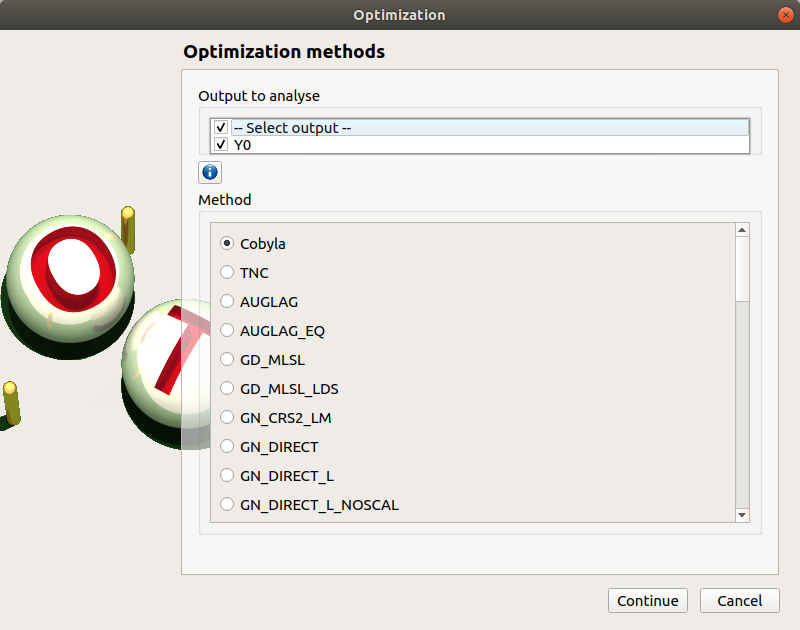
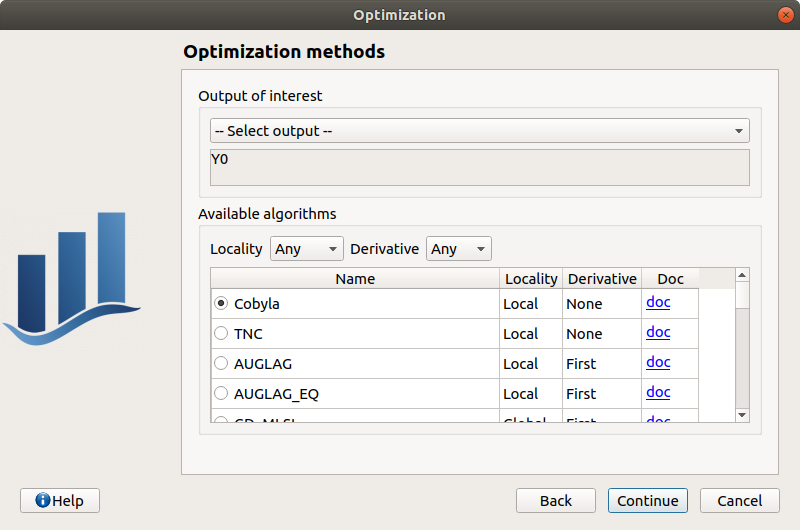
updated doc and translations

diff --git a/translations/persalys_fr.ts b/translations/persalys_fr.ts
@@ -5421,6 +5421,81 @@ ou interaction</translation>
     </message>
 </context>
 <context>
+    <name>PERSALYS::OptimizationAlgoPage</name>
+    <message>
+        <location filename="../lib/src/view/OptimizationAlgoPage.cxx" line="50"/>
+        <source>Optimization methods</source>
+        <translation>Méthodes d&apos;optimisation</translation>
+    </message>
+    <message>
+        <location filename="../lib/src/view/OptimizationAlgoPage.cxx" line="57"/>
+        <source>Available algorithms</source>
+        <translation>Algorithmes disponibles</translation>
+    </message>
+    <message>
+        <location filename="../lib/src/view/OptimizationAlgoPage.cxx" line="61"/>
+        <source>Local</source>
+        <translation>Local</translation>
+    </message>
+    <message>
+        <location filename="../lib/src/view/OptimizationAlgoPage.cxx" line="61"/>
+        <source>Global</source>
+        <translation>Global</translation>
+    </message>
+    <message>
+        <location filename="../lib/src/view/OptimizationAlgoPage.cxx" line="61"/>
+        <location filename="../lib/src/view/OptimizationAlgoPage.cxx" line="70"/>
+        <source>Any</source>
+        <translation>Tous</translation>
+    </message>
+    <message>
+        <location filename="../lib/src/view/OptimizationAlgoPage.cxx" line="116"/>
+        <source>Local/Global</source>
+        <translation>Local/Global</translation>
+    </message>
+    <message>
+        <location filename="../lib/src/view/OptimizationAlgoPage.cxx" line="70"/>
+        <source>None</source>
+        <translation>Aucun</translation>
+    </message>
+    <message>
+        <location filename="../lib/src/view/OptimizationAlgoPage.cxx" line="62"/>
+        <source>Locality</source>
+        <translation>Localité</translation>
+    </message>
+    <message>
+        <location filename="../lib/src/view/OptimizationAlgoPage.cxx" line="70"/>
+        <source>First</source>
+        <translation>Première</translation>
+    </message>
+    <message>
+        <location filename="../lib/src/view/OptimizationAlgoPage.cxx" line="71"/>
+        <location filename="../lib/src/view/OptimizationAlgoPage.cxx" line="117"/>
+        <source>Derivative</source>
+        <translation>Dérivée</translation>
+    </message>
+    <message>
+        <location filename="../lib/src/view/OptimizationAlgoPage.cxx" line="115"/>
+        <source>Name</source>
+        <translation>Nom</translation>
+    </message>
+    <message>
+        <location filename="../lib/src/view/OptimizationAlgoPage.cxx" line="118"/>
+        <source>Doc</source>
+        <translation>Doc</translation>
+    </message>
+    <message>
+        <location filename="../lib/src/view/OptimizationAlgoPage.cxx" line="212"/>
+        <source>Only one output must be selected</source>
+        <translation>Seulement une sortie doit être sélectionnée</translation>
+    </message>
+    <message>
+        <location filename="../lib/src/view/OptimizationAlgoPage.cxx" line="292"/>
+        <source>Cannot find a compatible algorithm</source>
+        <translation>Aucun algorithme compatible n&apos;a été trouvé</translation>
+    </message>
+</context>
+<context>
     <name>PERSALYS::OptimizationBoundsPage</name>
     <message>
         <location filename="../lib/src/view/OptimizationWizard.cxx" line="49"/>
@@ -5441,24 +5516,6 @@ ou interaction</translation>
         <location filename="../lib/src/view/OptimizationWizard.cxx" line="110"/>
         <source>The interval must contain the starting point</source>
         <translation>L&apos;intervalle doit contenir le point de départ</translation>
-    </message>
-</context>
-<context>
-    <name>PERSALYS::OptimizationIntroPage</name>
-    <message>
-        <location filename="../lib/src/view/OptimizationIntroPage.cxx" line="44"/>
-        <source>Optimization methods</source>
-        <translation>Méthodes d&apos;optimisation</translation>
-    </message>
-    <message>
-        <location filename="../lib/src/view/OptimizationIntroPage.cxx" line="70"/>
-        <source>Method</source>
-        <translation>Méthode</translation>
-    </message>
-    <message>
-        <location filename="../lib/src/view/OptimizationIntroPage.cxx" line="134"/>
-        <source>Only one output must be selected</source>
-        <translation>Seulement une sortie doit être sélectionnée</translation>
     </message>
 </context>
 <context>
@@ -5580,27 +5637,27 @@ ou interaction</translation>
 <context>
     <name>PERSALYS::OptimizationStoppingCriteria</name>
     <message>
-        <location filename="../lib/src/view/OptimizationWizard.cxx" line="133"/>
+        <location filename="../lib/src/view/OptimizationWizard.cxx" line="140"/>
         <source>Number of evaluations</source>
         <translation>Nombre d&apos;évaluations</translation>
     </message>
     <message>
-        <location filename="../lib/src/view/OptimizationWizard.cxx" line="142"/>
+        <location filename="../lib/src/view/OptimizationWizard.cxx" line="149"/>
         <source>Absolute error</source>
         <translation>Erreur absolue</translation>
     </message>
     <message>
-        <location filename="../lib/src/view/OptimizationWizard.cxx" line="150"/>
+        <location filename="../lib/src/view/OptimizationWizard.cxx" line="157"/>
         <source>Relative error</source>
         <translation>Erreur relative</translation>
     </message>
     <message>
-        <location filename="../lib/src/view/OptimizationWizard.cxx" line="158"/>
+        <location filename="../lib/src/view/OptimizationWizard.cxx" line="165"/>
         <source>Residual error</source>
         <translation>Erreur sur les résidus</translation>
     </message>
     <message>
-        <location filename="../lib/src/view/OptimizationWizard.cxx" line="166"/>
+        <location filename="../lib/src/view/OptimizationWizard.cxx" line="173"/>
         <source>Constraint error</source>
         <translation>Erreur sur la contrainte</translation>
     </message>
@@ -5646,37 +5703,37 @@ ou interaction</translation>
 <context>
     <name>PERSALYS::OptimizationWizard</name>
     <message>
-        <location filename="../lib/src/view/OptimizationWizard.cxx" line="186"/>
+        <location filename="../lib/src/view/OptimizationWizard.cxx" line="193"/>
         <source>Optimization</source>
         <translation>Optimisation</translation>
     </message>
     <message>
-        <location filename="../lib/src/view/OptimizationWizard.cxx" line="196"/>
+        <location filename="../lib/src/view/OptimizationWizard.cxx" line="199"/>
         <source>Choose the input variables to optimize. Define the starting point and the bounds of the optimization algorithm.</source>
         <translation>Choisir les entrées à optimiser. Définir le point de départ et les bornes de l&apos;algorithme d&apos;optimisation.</translation>
     </message>
     <message>
-        <location filename="../lib/src/view/OptimizationWizard.cxx" line="205"/>
+        <location filename="../lib/src/view/OptimizationWizard.cxx" line="213"/>
         <source>Parameter</source>
         <translation>Paramètre</translation>
     </message>
     <message>
-        <location filename="../lib/src/view/OptimizationWizard.cxx" line="208"/>
+        <location filename="../lib/src/view/OptimizationWizard.cxx" line="216"/>
         <source>Problem type</source>
         <translation>Type d&apos;optimisation</translation>
     </message>
     <message>
-        <location filename="../lib/src/view/OptimizationWizard.cxx" line="211"/>
+        <location filename="../lib/src/view/OptimizationWizard.cxx" line="219"/>
         <source>Minimization</source>
         <translation>Minimisation</translation>
     </message>
     <message>
-        <location filename="../lib/src/view/OptimizationWizard.cxx" line="211"/>
+        <location filename="../lib/src/view/OptimizationWizard.cxx" line="219"/>
         <source>Maximization</source>
         <translation>Maximisation</translation>
     </message>
     <message>
-        <location filename="../lib/src/view/OptimizationWizard.cxx" line="217"/>
+        <location filename="../lib/src/view/OptimizationWizard.cxx" line="225"/>
         <source>Stopping criteria</source>
         <translation>Critères d&apos;arrêt</translation>
     </message>

diff --git a/python/doc/user_manual/graphical_interface/deterministic_analysis/user_manual_deterministic_analysis.rst b/python/doc/user_manual/graphical_interface/deterministic_analysis/user_manual_deterministic_analysis.rst
@@ -677,31 +677,48 @@ New model optimization can be created through:
 4-1 Definition
 ''''''''''''''
 
-When this analysis is required, the following window appears, in order to set up:
-  - The output of interest (**Select output** - default: the first output is analyzed)
-  - The method of optimization (default: Cobyla).
-    The two first methods **Cobyla** and **TNC** are proposed by OpenTURNS.
-    The other methods are solvers from the non-linear optimization library
-    `NLopt <https://nlopt.readthedocs.io/en/latest/>`_ (if it is installed).
-
-.. image:: /user_manual/graphical_interface/deterministic_analysis/optimizationWizardFirstPage.png
-    :align: center
-
-In the table of the next window:
+When this analysis is requested, the following window appears:
   - *First column*: Select the inputs which will vary by checking off the corresponding line
     (default: all inputs vary)
     At least one input must vary.
   - *Second column*: description of the variables (defined in the model)
   - *Third column*: Define the starting point of the optimization
     (default: value in the physical model definition)
-  - *Fourth and Fifth columns*: Define the bounds of the variable inputs.
-    The lower bound must be less than the upper bound.
-    Check off/uncheck a cell to make the bound finite/infinite.
-    The interval must contain the initial value (third column).
+  - *Fourth and Fifth columns*: Define the bounds of the variable
+    inputs.  The lower bound must be less than the upper bound.  Check
+    off/uncheck a cell to make the bound finite/infinite. This will
+    condition the list of proposed algorithms on the next page The
+    interval must contain the initial value (third column).
 
 .. image:: /user_manual/graphical_interface/deterministic_analysis/optimizationWizardSecondPage.png
     :align: center
 
+In next window, one can set up:
+  - The output of interest (**Select output** - default: the first
+    output is analyzed). Only one output must be selected.
+  - The method of optimizations are listed in the table
+    below. Proposed algorithms are given by OpenTURNS depending on
+    which optional libraries are installed. The user can filter the
+    list according to the desired algorithm property (Locality and use
+    of derivative information). The default algorithm will change
+    based on this selection according to this:
+
+========================================= ===================
+  Case	                                  Default algorithm
+========================================= ===================
+No bounds, no derivative, local           Cobyla
+No bounds, no derivative, global          Impossible
+No bounds, with derivative, local         LD_LBFGS
+No bounds, with derivative, global        Impossible
+With bounds, no derivative, local         Cobyla
+With bounds, no derivative, global        GN_MLSL
+With bounds, with derivative, local       LD_LBFGS
+With bounds, with derivative, global      GD_MLSL
+========================================= ===================
+
+
+.. image:: /user_manual/graphical_interface/deterministic_analysis/optimizationWizardFirstPage.png
+    :align: center
 
 The values of the table are expected to be floating points or integer.
 

diff --git a/python/doc/developer_manual/validation/validation.rst b/python/doc/developer_manual/validation/validation.rst
@@ -547,15 +547,6 @@ Deterministic analyses
 
     - First page check the values :
 
-      .. image:: /developer_manual/validation/optimization_wizard_1st_page.png
-          :align: center
-
-      - selected output : y1
-      - method : TNC
-      - continue
-
-    - Second page check the values :
-
       - x1 and x2 checked
       - starting point : [0.2, 1.2, 1.]
       - check table behavior:
@@ -571,6 +562,20 @@ Deterministic analyses
 
       .. image:: /developer_manual/validation/optimization_wizard_2nd_page.png
           :align: center
+
+    - Second page check the values :
+
+      .. image:: /developer_manual/validation/optimization_wizard_1st_page.png
+          :align: center
+
+      - selected output : y1
+      - method : TNC
+      - change "Locality = Global"
+      - TNC no longer available algorithm changed to "GD_MLSL"
+      - revert "Locality" to "Any" and reselect "TNC"
+      - click on "doc" in the line containing "TNC"
+      - web browser opens a link to "TNC" documentation
+      - continue
 
     - Third page check the values :
 
